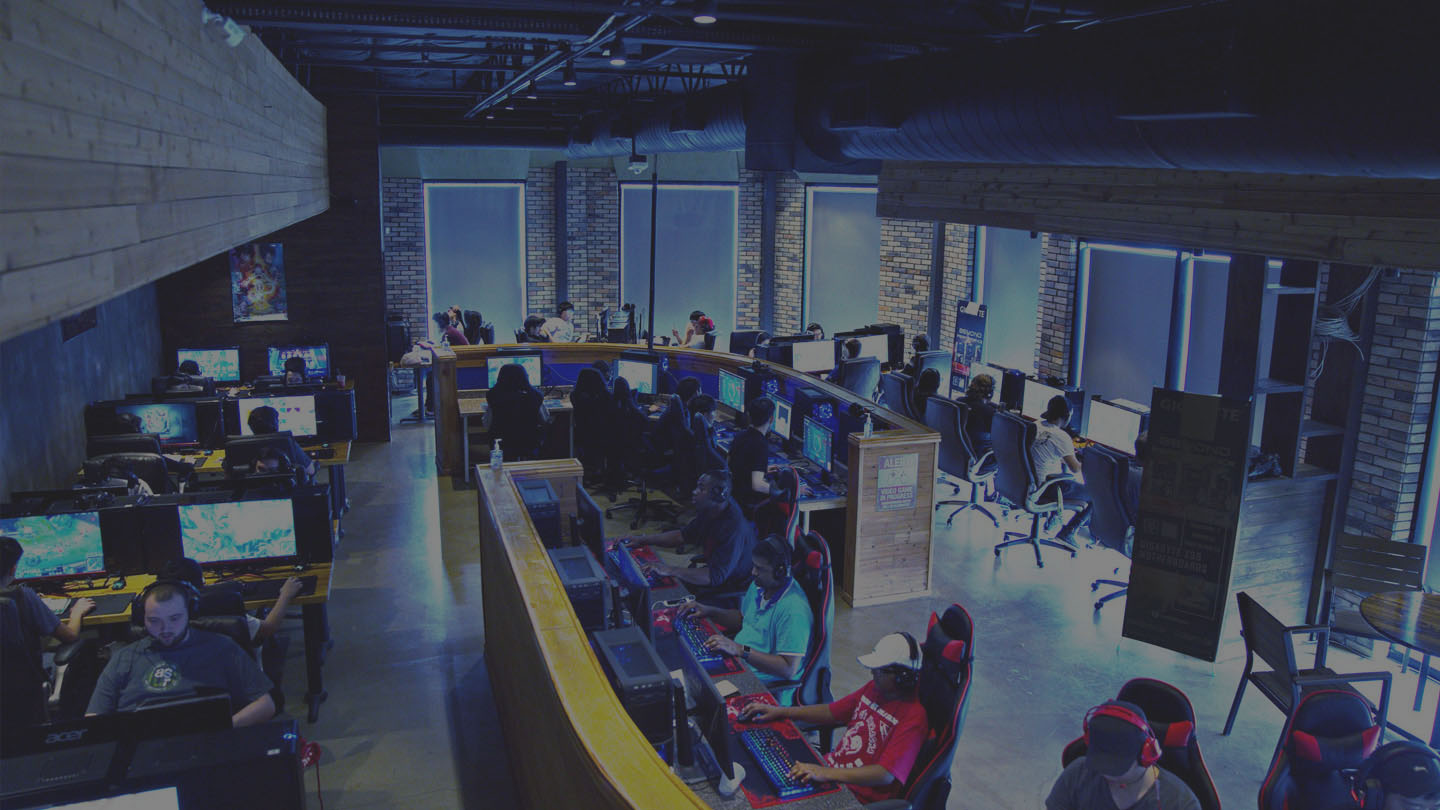
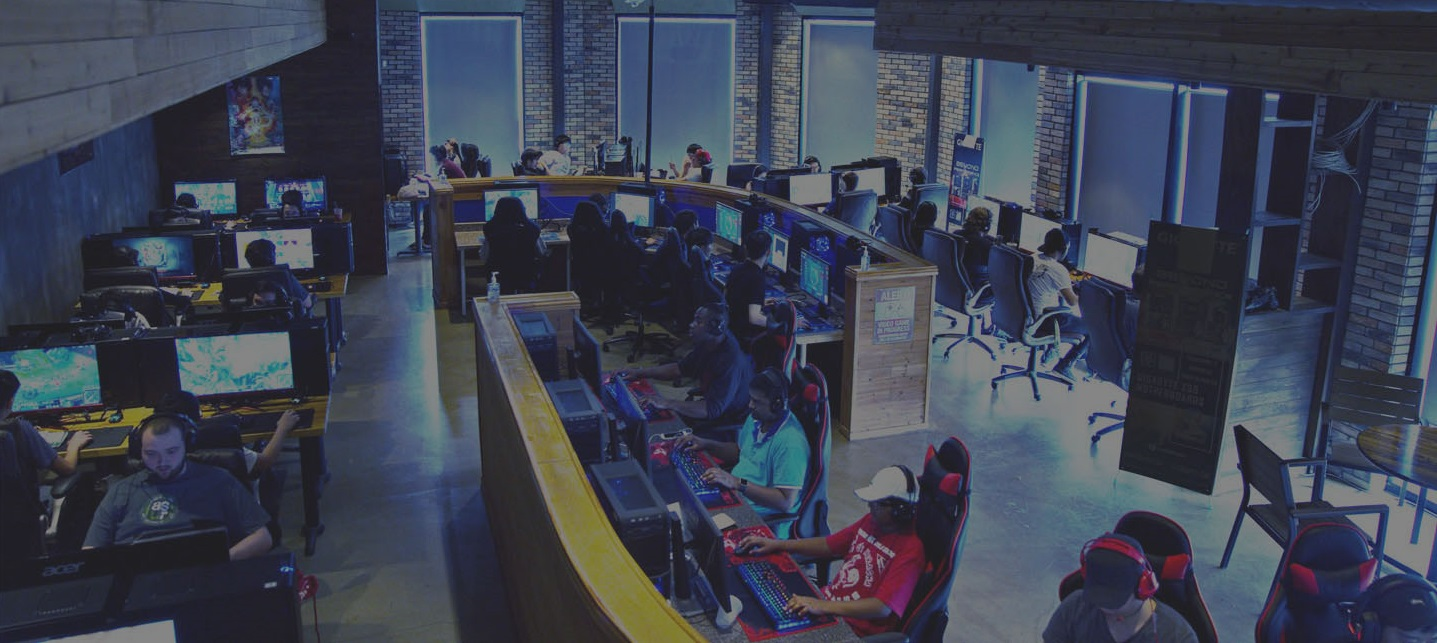
1.2

diff --git a/style.css b/style.css
@@ -1,10 +1,11 @@
 body {
   margin: 0;
-  font-family: Arial, Helvetica, sans-serif;
+  font-family: Montserrat;
 }
 .topnav {
-  background-color: #333;
+  background-color: #2b2b2b;
   overflow: hidden;
+  z-index: 1;
 }
 
 /* Style the links inside the navigation bar */
@@ -12,26 +13,96 @@ body {
   float: left;
   color: #f2f2f2;
   text-align: center;
-  padding: 30px 34px;
+  padding: 20px 34px;
   text-decoration: none;
   font-size: 17px;
+  z-index: 1;
 }
 
 /* Change the color of links on hover */
 .topnav a:hover {
   background-color: #ddd;
   color: black;
+
 }
 
 /* Add a color to the active/current link */
 .topnav a.active {
-  background-color: #DC143C;
+  background-color: #74b9ff;
   color: white;
 }
-.bg { 
-  background: url(bg.jpg) no-repeat center center fixed; 
-  -webkit-background-size: cover;
-  -moz-background-size: cover;
-  -o-background-size: cover;
-  background-size: cover;
+.bg {
+  background: url(bg.jpg) no-repeat center center fixed;
+}
+.centered {
+  position: absolute;
+  display: inline;
+  top: 55%;
+  left: 50%;
+  transform: translate(-50%, -50%);
+}
+.img { display: absolute; width: 100%; filter: blur(2px);margin-top:0%; }
+.login {
+	margin-top: 1%;
+}
+.box {
+  width: 300px;
+  padding: 40px;
+  position: absolute;
+  top: 50%;
+  left:50%;
+  transform: translate(-50%,-50%);
+  background: #2b2b2b;
+  text-align: center;
+  border-radius: 15px;
+
+}
+.box h1{
+  color: white;
+  font-family: Montserrat;
+  text-transform: uppercase;
+  font-weight: 500;
+
+}
+.box h5{
+  color: white;
+  font-family: Montserrat;
+  font-weight: 600;
+}
+.box a{
+  text-decoration: none;
+  color: #74b9ff
+}
+.box input[type="text"],.box input[type="password"]{
+  border:0;
+  font-family: Montserrat;
+  background: none;
+  display: block;
+  margin: 20px auto;
+  text-align: center;
+  border : 2px solid #00cec9;
+  padding:14px 10px;
+  width: 200px;
+  outline: none;
+  color: white;
+  border-radius: 24px;
+  transition: 0.25s;
+}
+.box input[type="submit"]{
+  border: 0;
+  font-family: Montserrat;
+  background: none;
+  display: block;
+  margin: 20px auto;
+  text-align: center;
+  border: 2px solid #55efc4;
+  padding: 14px 40px;
+  outline: none;
+  color: white;
+  border-radius: 24px;
+  transition: 0.25s;
+  cursor: pointer;
+}
+.box input[type="submit"]:hover{
+  background: #55efc4;
 }

diff --git a/login.html b/login.html
@@ -3,7 +3,7 @@
 <meta name="viewport" content="width=device-width, initial-scale=1">
 <link rel="stylesheet" type="text/css" href="style.css">
 </head>
-<body>
+<body bgcolor="#333">
 
 <div class="topnav">
    <a class="active" href="mywebsite.html">Apex Cyber</a>
@@ -12,10 +12,15 @@
   <a href="contact.html">Contact Us</a>
   <a style="float:right" href="login.html">Login</a>
 </div>
+<form class="box" action="loginnow.html" method="post">
+  <h1>Login</h1>
+  <input type="text" placeholder="Username">
+  <input type="password" name="" placeholder="Password">
+  <input type="submit" name="" value="Log in">
+  <h5>Don't have Account? <a href="signup.html">Sign up</a></h5>
+</form>
 
-<div class="bg">
-  <h1>Login Page</h2>
- 
+
 </div>
 
 </body>

diff --git a/mywebsite.html b/mywebsite.html
@@ -3,9 +3,9 @@
 <meta name="viewport" content="width=device-width, initial-scale=1">
 <link rel="stylesheet" type="text/css" href="style.css">
 </head>
-<body class="bg">
+<body bgcolor="#333">
 
-<div class="topnav">
+<div class="topnav" ">
   <a class="active" href="mywebsite.html">Apex Cyber</a>
   <a href="cs.html">Computer Specs</a>
   <a href="about.html">About</a>
@@ -13,13 +13,11 @@
   <a style="float:right" href="login.html">Login</a>
 </div>
 
-<div style="padding-left:16px">
-  <h1>Apex Cyber Cafe</h2>
- 
+<div>
+<img class="img" src="bg.jpg" width="100%" >
+<div class="centered">
+<h1 style="font-size:80px;color:white; -webkit-text-stroke: 3px white;font-family:Montserrat">Apex Cyber Cafe</h1>
 </div>
 
 </body>
 </html>
-
-
-	 

diff --git a/cs.html b/cs.html
@@ -3,7 +3,7 @@
 <meta name="viewport" content="width=device-width, initial-scale=1">
 <link rel="stylesheet" type="text/css" href="style.css">
 </head>
-<body>
+<body bgcolor="#333">
 
 <div class="topnav">
    <a class="active" href="mywebsite.html">Apex Cyber</a>
@@ -15,7 +15,7 @@
 
 <div style="padding-left:16px">
   <h1>Computer Specifications </h2>
- 
+
 </div>
 
 </body>

diff --git a/contact.html b/contact.html
@@ -3,7 +3,7 @@
 <meta name="viewport" content="width=device-width, initial-scale=1">
 <link rel="stylesheet" type="text/css" href="style.css">
 </head>
-<body>
+<body bgcolor="#333">
 
 <div class="topnav">
    <a class="active" href="mywebsite.html">Apex Cyber</a>
@@ -15,7 +15,7 @@
 
 <div style="padding-left:16px">
   <h1>Contact Us</h2>
- 
+
 </div>
 
 </body>

diff --git a/about.html b/about.html
@@ -3,7 +3,7 @@
 <meta name="viewport" content="width=device-width, initial-scale=1">
 <link rel="stylesheet" type="text/css" href="style.css">
 </head>
-<body>
+<body bgcolor="#333">
 
 <div class="topnav">
    <a class="active" href="mywebsite.html">Apex Cyber</a>
@@ -15,7 +15,7 @@
 
 <div style="padding-left:16px">
   <h1>About Us</h2>
- 
+
 </div>
 
 </body>
